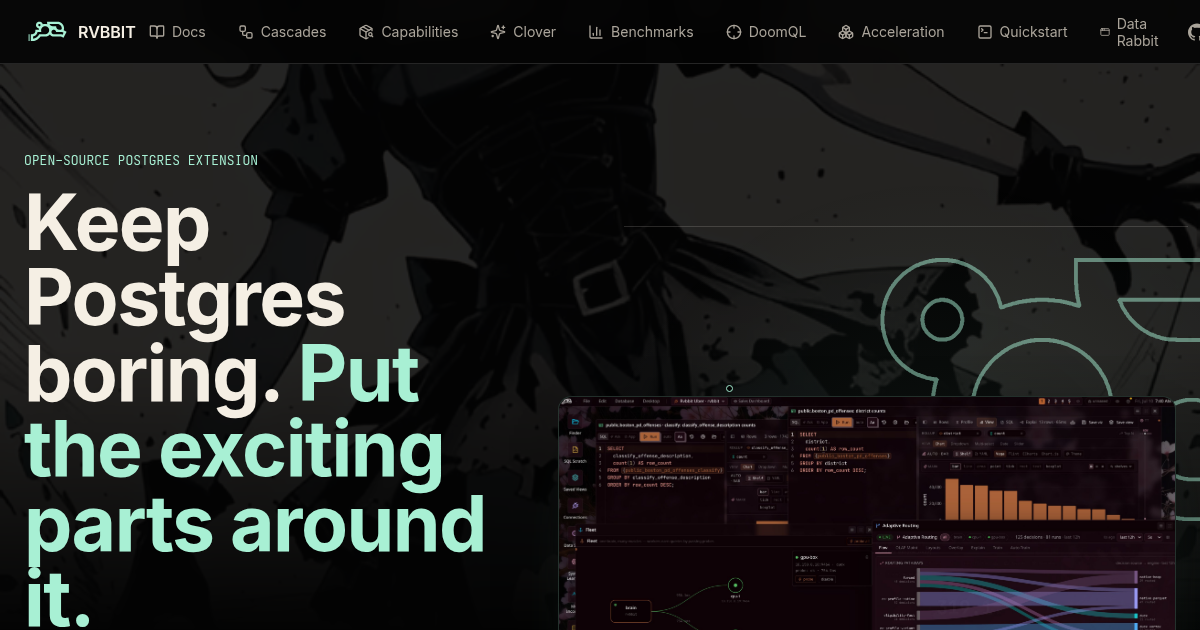
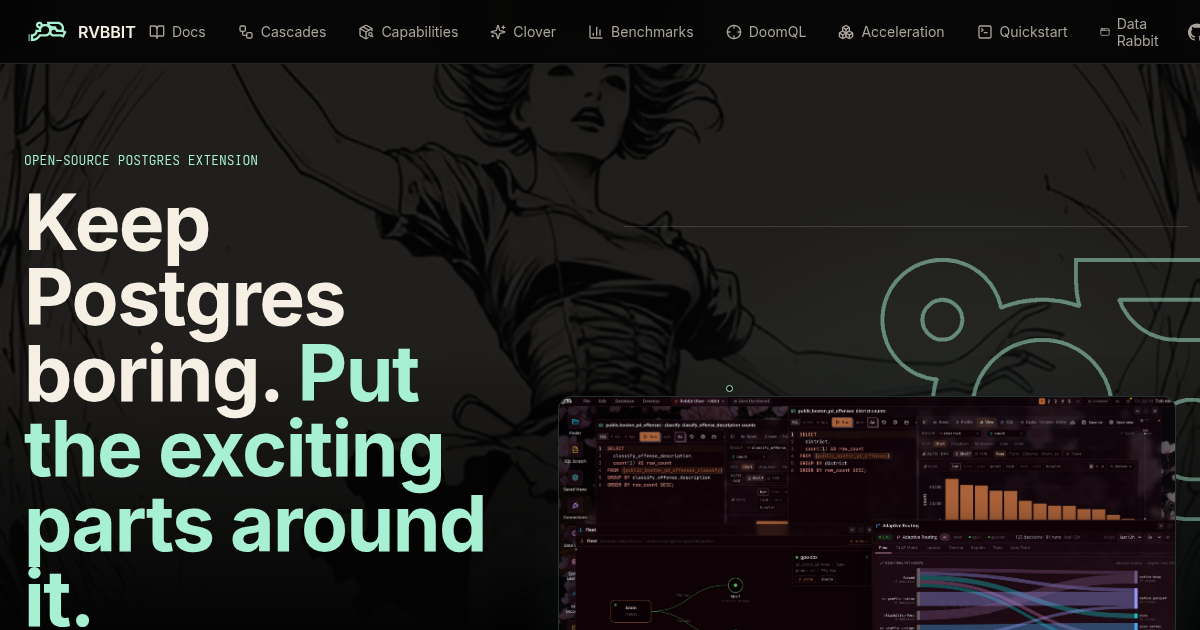
Operators page: SqlCode highlighting + quiet scrollbars on the fit examples

diff --git a/app/clover/operators/page.tsx b/app/clover/operators/page.tsx
@@ -1,5 +1,6 @@
 import Link from "next/link";
 import type { Metadata } from "next";
+import { SqlCode } from "@/components/SqlCode";
 import catalog from "../../../content/clover-operators.json";
 
 export const metadata: Metadata = {
@@ -352,30 +353,29 @@ export default function CloverOperatorsPage() {
             maxWidth: 1100
           }}
         >
-          <article className="feature-card">
+          <article className="feature-card code-quiet">
             <h3>Fit → predict, one statement</h3>
-            <pre style={{ overflowX: "auto", fontSize: "0.82rem", lineHeight: 1.55 }}>
-              <code>{`WITH model AS (
+            <SqlCode ariaLabel="Fit then predict via a CTE">{`WITH model AS (
   SELECT rvbbit.clover_fit(
     'classifier',
-    '[[1,1],[2,1],[1,2],[8,9],[9,8],[9,9]]',      -- feature rows
-    '["small","small","small","big","big","big"]' -- labels
+    '[[1,1],[2,1],[1,2],[8,9],[9,8],[9,9]]',  -- features
+    '["small","small","small",
+      "big","big","big"]'                     -- labels
   ) AS m
 )
 SELECT rvbbit.clover_predict(
-         m->>'blob_b64',        -- the model, straight back in
-         '[[9,9]]'              -- rows to classify
+         m->>'blob_b64',   -- the model, straight back in
+         '[[9,9]]'         -- rows to classify
        )->'predictions'->>0
-FROM model;                     -- → big`}</code>
-            </pre>
+FROM model;                -- → big`}</SqlCode>
           </article>
-          <article className="feature-card">
+          <article className="feature-card code-quiet">
             <h3>Or keep the model — it&apos;s yours</h3>
-            <pre style={{ overflowX: "auto", fontSize: "0.82rem", lineHeight: 1.55 }}>
-              <code>{`-- Train once, store the blob like any other value:
+            <SqlCode ariaLabel="Store the fitted model and reuse it">{`-- Train once, store the blob like any value:
 CREATE TABLE churn_model AS
 SELECT now() AS trained_at,
-       rvbbit.clover_fit('classifier', f.features, f.labels) AS m
+       rvbbit.clover_fit('classifier',
+         f.features, f.labels) AS m
 FROM   my_training_set f;
 
 -- Reuse it anywhere, forever, no refitting:
@@ -383,8 +383,7 @@ SELECT rvbbit.clover_predict(
          (SELECT m->>'blob_b64' FROM churn_model
           ORDER BY trained_at DESC LIMIT 1),
          c.features)
-FROM   new_customers c;`}</code>
-            </pre>
+FROM   new_customers c;`}</SqlCode>
             <p style={{ fontSize: "0.85rem", opacity: 0.8 }}>
               Same pattern for <code>clover_anomaly_fit</code> →{" "}
               <code>clover_anomaly_score</code>, and <code>clover_explain</code> takes

diff --git a/app/globals.css b/app/globals.css
@@ -1949,6 +1949,36 @@ main > section {
   box-shadow: inset 0 1px 0 #ffffff08;
 }
 
+/* Quiet code blocks: the card supplies the surface, and the horizontal
+   scrollbar becomes a hairline that only asserts itself on hover —
+   scrollability without visual dominance. */
+.code-quiet .sql-pre {
+  margin: 0.6rem 0 0;
+  border: 0;
+  border-radius: 8px;
+  background: rgba(0, 0, 0, 0.35);
+  box-shadow: none;
+  padding: 0.8rem 1rem;
+  font-size: 12.5px;
+  line-height: 1.6;
+  overflow-x: auto;
+  scrollbar-width: thin;
+  scrollbar-color: rgba(148, 163, 184, 0.25) transparent;
+}
+.code-quiet .sql-pre::-webkit-scrollbar {
+  height: 5px;
+}
+.code-quiet .sql-pre::-webkit-scrollbar-track {
+  background: transparent;
+}
+.code-quiet .sql-pre::-webkit-scrollbar-thumb {
+  background: rgba(148, 163, 184, 0.18);
+  border-radius: 999px;
+}
+.code-quiet .sql-pre:hover::-webkit-scrollbar-thumb {
+  background: rgba(148, 163, 184, 0.4);
+}
+
 .sql-code,
 .markdown-body pre.sql-pre code.sql-code {
   display: block;
